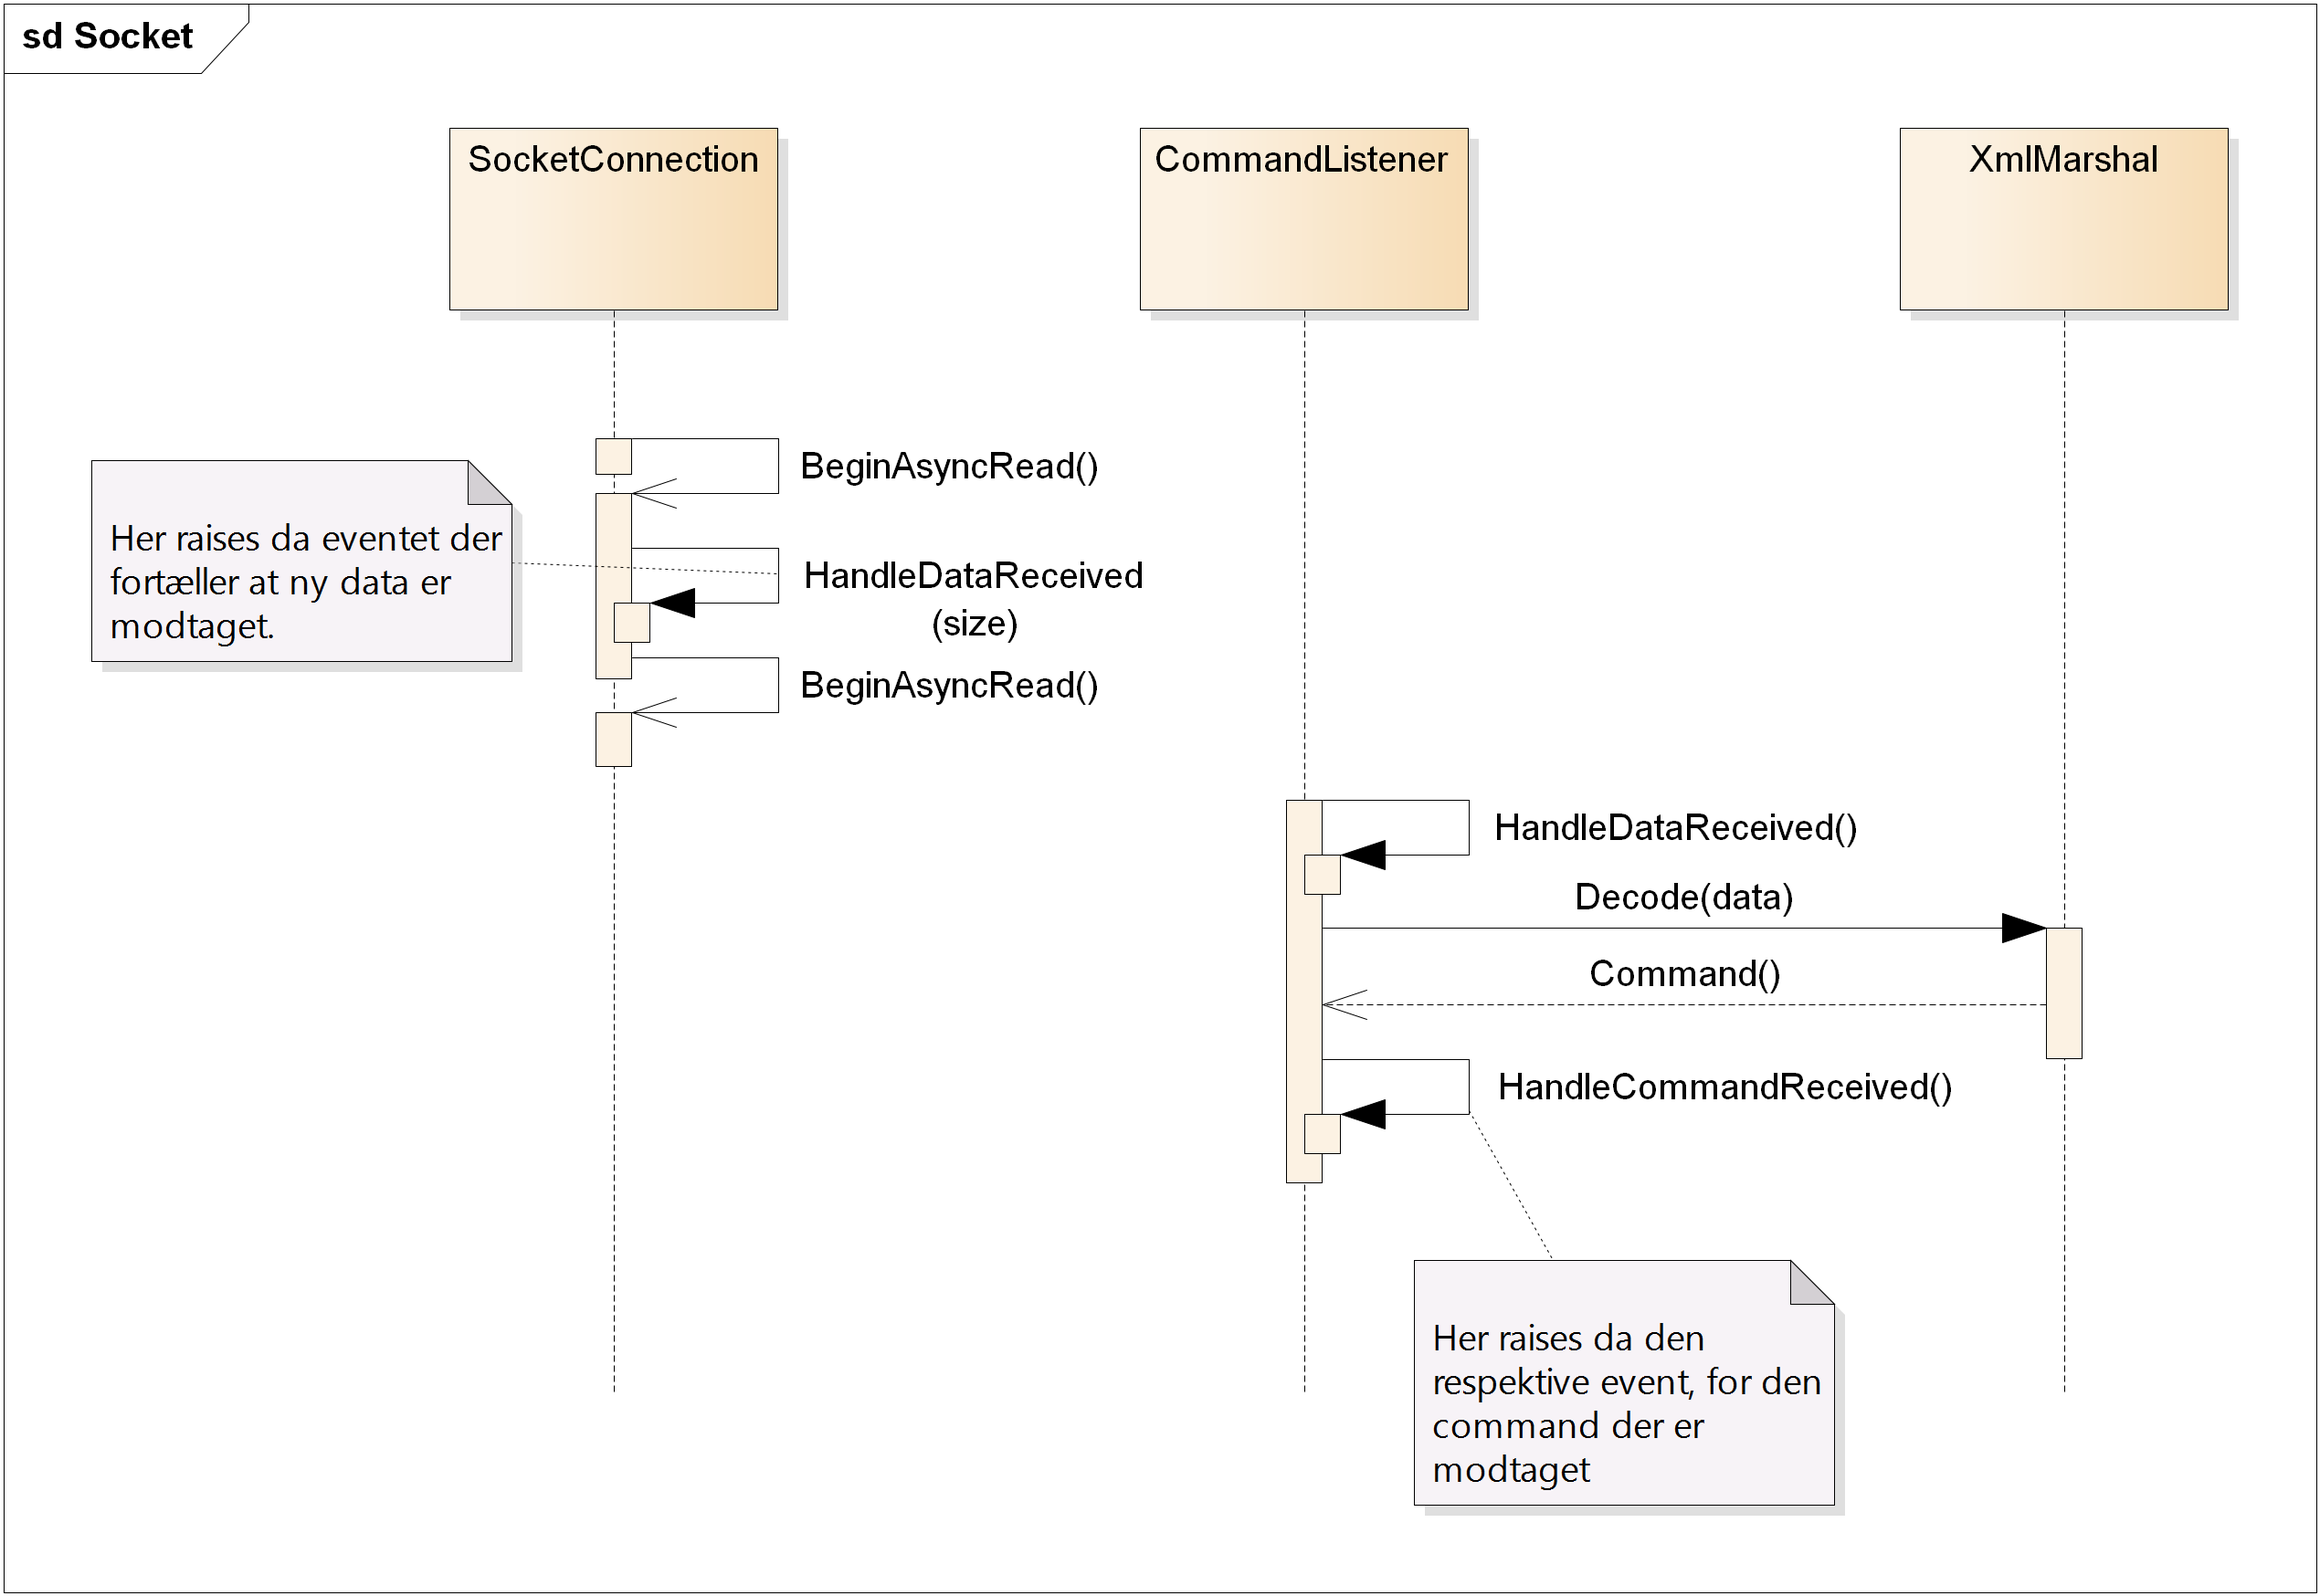
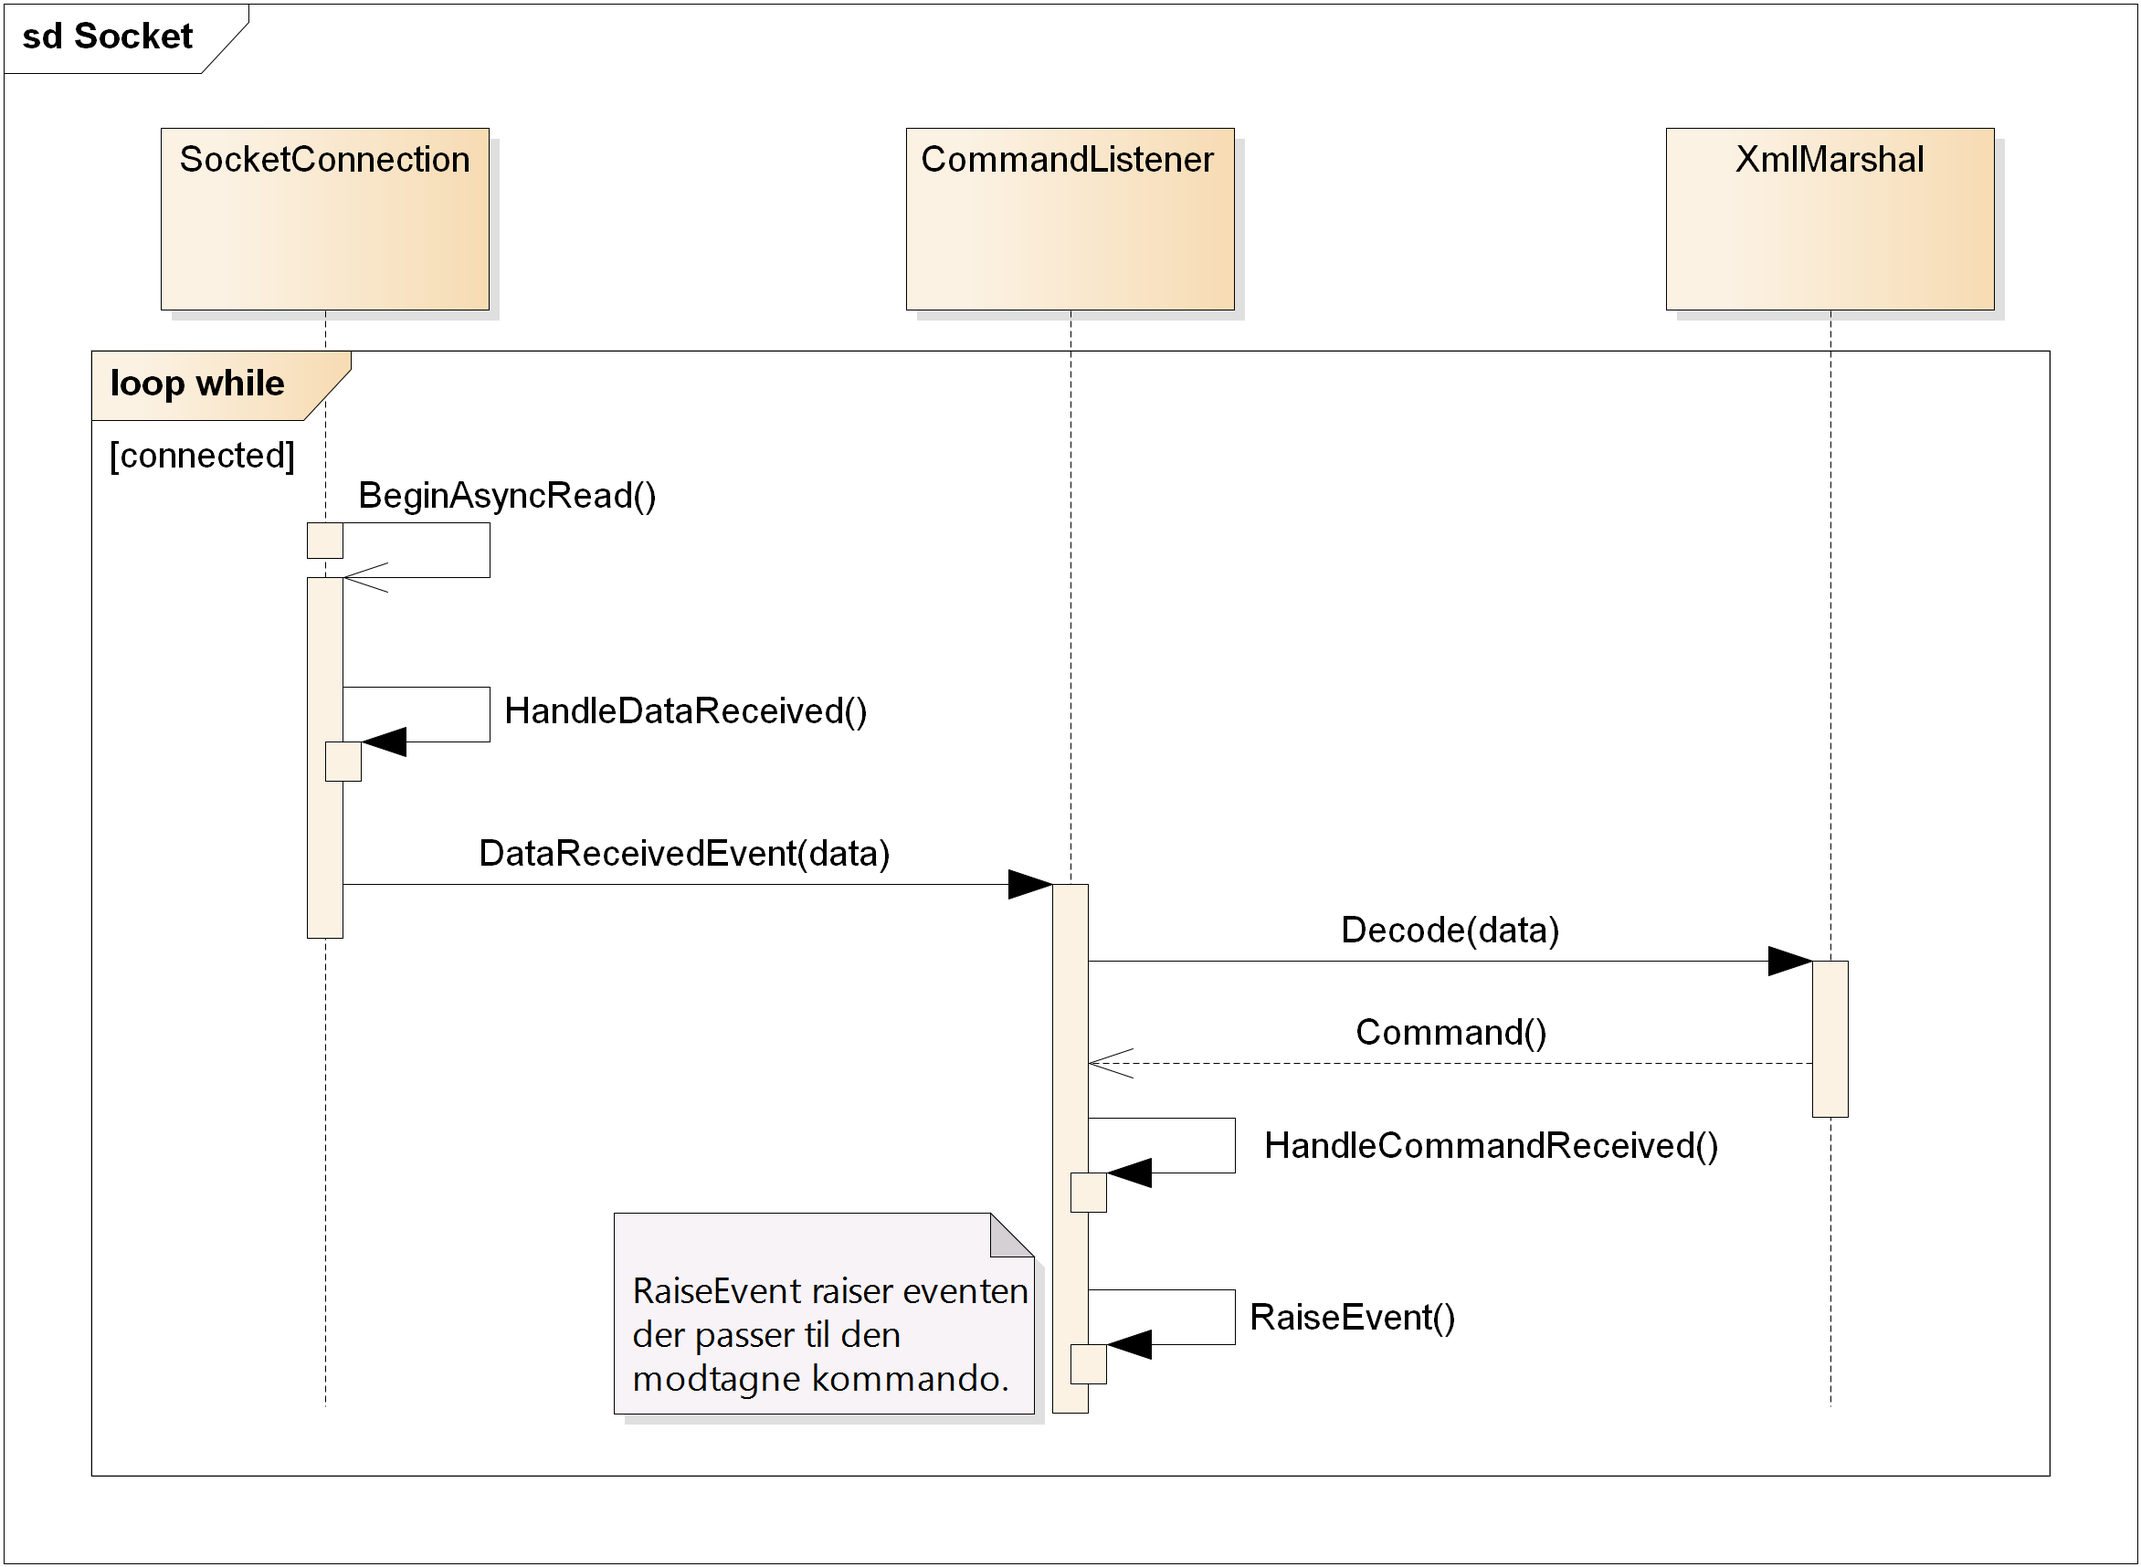
Rewrite a bit in Sockets in sharedlib

diff --git a/LaTeX/Projektdokumtation/Systemdesign/SharedLib/Sockets.tex b/LaTeX/Projektdokumtation/Systemdesign/SharedLib/Sockets.tex
@@ -1,10 +1,13 @@
-\textbf{Klient}
-Sockets består af hhv. en klient til at sende, og en klasse der kan lytte. Klienten som sender fungerer asynkront, således at der ikke blokeres i en eventuel GUI, hvis det er her denne bruges. Det ses at dette bruges eksempelvis i \gls{AS}, hvor denne bruges til at sende data til \gls{CS}.\\
-Der findes desuden nogle events i denne. Disse indebærer bl.a. 	et event når data er modtaget, og et event hvis der sker en fejl. Dette tillader at der kan implementeres egne handlere, parsere mv. Dette kunne eksempelvis være dem der også findes i \gls{SL} \\\\
+\subsection{Socketforbindelse}
+\textbf{SocketConnection}
+SocketConnection klassen implementerer asynkron læsning fra en socketforbindelse, samt synkron sending af data. Når der er oprettet forbindelse til en server (\gls{CS} i dette system) vil SocketConnection begynde at læse asynkront. Når der modtages data kaldes en handler, som kalder invoke på et "Data modtage" event. Dette event bruges af \textit{CommandListener}, som er beskrevet nedenfor.\\
+Da læsning foregår asynkront vil resten af programmet ikke blive blokeret, hvilket er den optimale løsning, da der altid skal lyttes på socket forbindelsen efter nye kommandoer.\\
+Klassen har også funktionalitet til at sende data. Dette gøres synkront. Der er ingen events relateret til at sende data.\\
+SocketConnection implementerer også en række andre events, som bliver invoket når der er oprettet forbindelse, når forbindelsen bliver afbrudt og når der forekommer fejl.\\\\
  
 
-\textbf{Listener}
-Denne klasse implementerer eventhandlere, som reagerer når eventet for data modtaget bliver raised. Denne kontrollerer da hvilken type command\footnote{Commands er nærmere beskrevet i afsnit \ref{COMMANDS} side \pageref{COMMANDS}} der er modtaget. Efterfølgende bliver der således raised et nyt event, som en bruger kan subscribe på, og have sin egen handler.\\
+\textbf{CommandListener}
+Denne klasses ansvar er at håndtere den data der bliver modtaget af \textit{SocketConnection}. Klassen subscriber på \textit{SocketConnection} klassens "Data modtaget" event. Når der modtages data tjekker \textit{CommandListener} om der er modtaget en hel kommando XML streng. Er dette tilfældet, så bliver den afkodede kommando sendt til en kommando handler. Denne finder ud af, hvilken type command\footnote{Commands er nærmere beskrevet i afsnit \ref{COMMANDS} side \pageref{COMMANDS}} der er modtaget. Efterfølgende bliver der således raised et nyt event, som en bruger kan subscribe på, og have sin egen handler, som håndterer den modtagne kommando.\\
 Der findes events for de følgende begivenheder:
 
 \begin{itemize}
@@ -18,8 +21,8 @@ Der findes events for de følgende begivenheder:
 	\item Produkt er modificeret.
 \end{itemize}
 
-Selve kommandoen bliver da sendt med, således brugeren selv kan parse denne.\\
-På denne måde opnåes en lav kobling. \gls{SL}s klient og listener er komplet uafhængige af hvem der har subscribet på disse events, den raiser dem bare. Ligeledes er der ingen begrænsninger for hvor mange der kan subscribe på disse events. Det tillader da at flere administrationssystemer kan eksistere, og derved blive notificeret hvis der er sket en ændring. Derved opnåes total synkronisering mellem alle subscribere.
+Selve kommandoen bliver sendt med, således brugeren selv kan håndtere denne.\\
+På denne måde opnås en lav kobling. \textit{CommandListener} har ikke viden om, hvem der er subscribed på dens events, den raiser dem bare.
 
 \begin{figure}[H]
 	\centering
@@ -28,5 +31,5 @@ På denne måde opnåes en lav kobling. \gls{SL}s klient og listener er komplet 
 	\label{fig:sockit}
 \end{figure}
 
-På diagrammet i figur \ref{fig:sockit} ses det hvordan data håndteres. Når den modtages fra serveren. Ved SocketConnection vil read blive ved med at blive kaldt, medmindre der sker en fejl. I dette tilfælde vil et event om fejl blive raised. Se desuden hvordan dataen bearbejdes af modtageren i afsnit \ref{fig:DataReceive} side \pageref{fig:DataReceive}.
+På diagrammet i figur \ref{fig:sockit} ses det hvordan data håndteres, når den modtages fra serveren. Ved SocketConnection vil read blive ved med at blive kaldt, medmindre der sker en fejl. I dette tilfælde vil et event om fejl blive raised. Se desuden hvordan dataen bearbejdes af modtageren i afsnit \ref{fig:DataReceive} side \pageref{fig:DataReceive}.
  

diff --git a/LaTeX/Projektdokumtation/Systemdesign/Systemdesign.tex b/LaTeX/Projektdokumtation/Systemdesign/Systemdesign.tex
@@ -7,4 +7,3 @@
 \input{Systemdesign/BackendDesign}
 \newpage
 \input{Systemdesign/CentralServerDesign}
-
